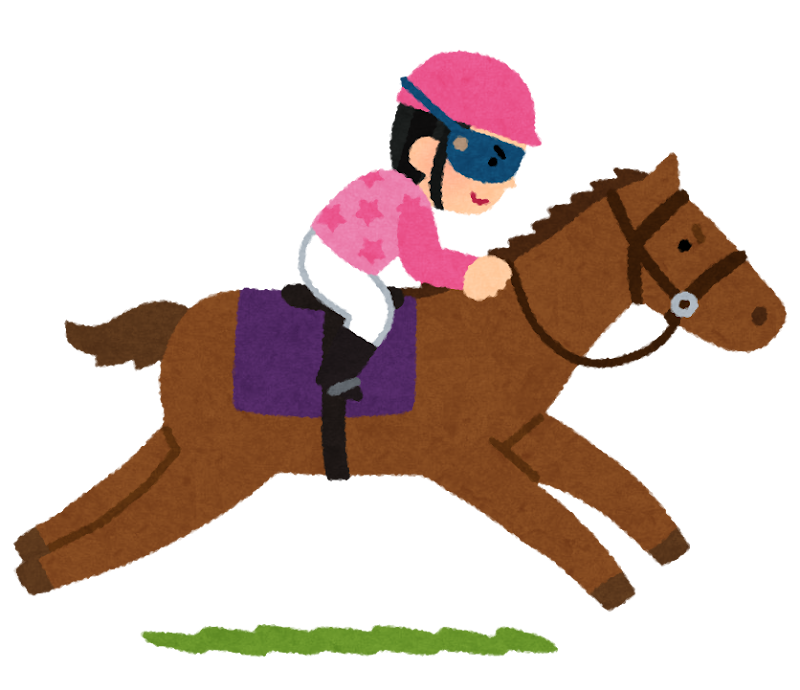
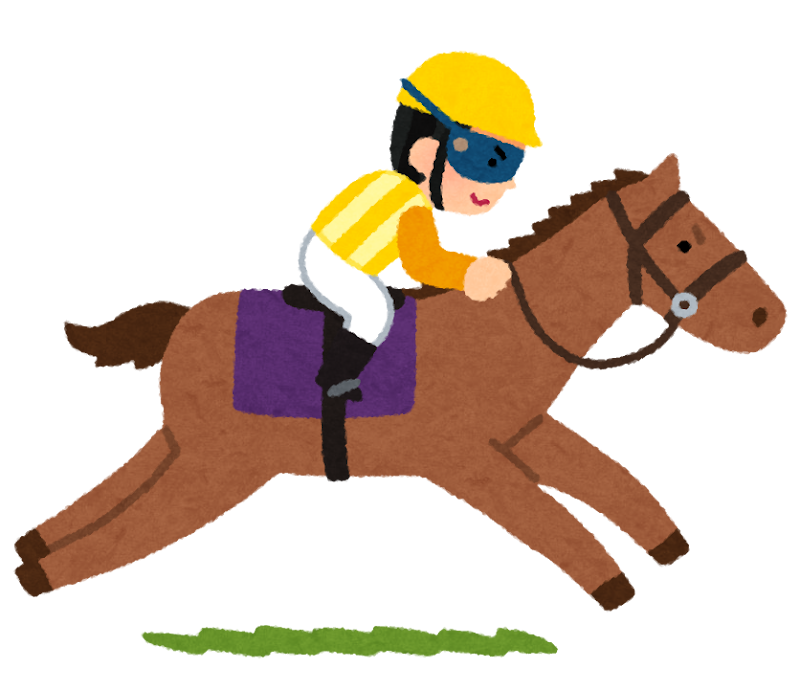
馬の色変更

diff --git a/style.css b/style.css
@@ -7,7 +7,7 @@ body {
     width: 100%;
     height: 475px;
     border: 2px solid #000;
-    background-image:url(kaibahaikei.png);
+    background-image:url(keibahaikei.png);
     /* background-color: rgb(153, 240, 124); レーストラックの背景色を緑に設定 */
 }
 .horse {
